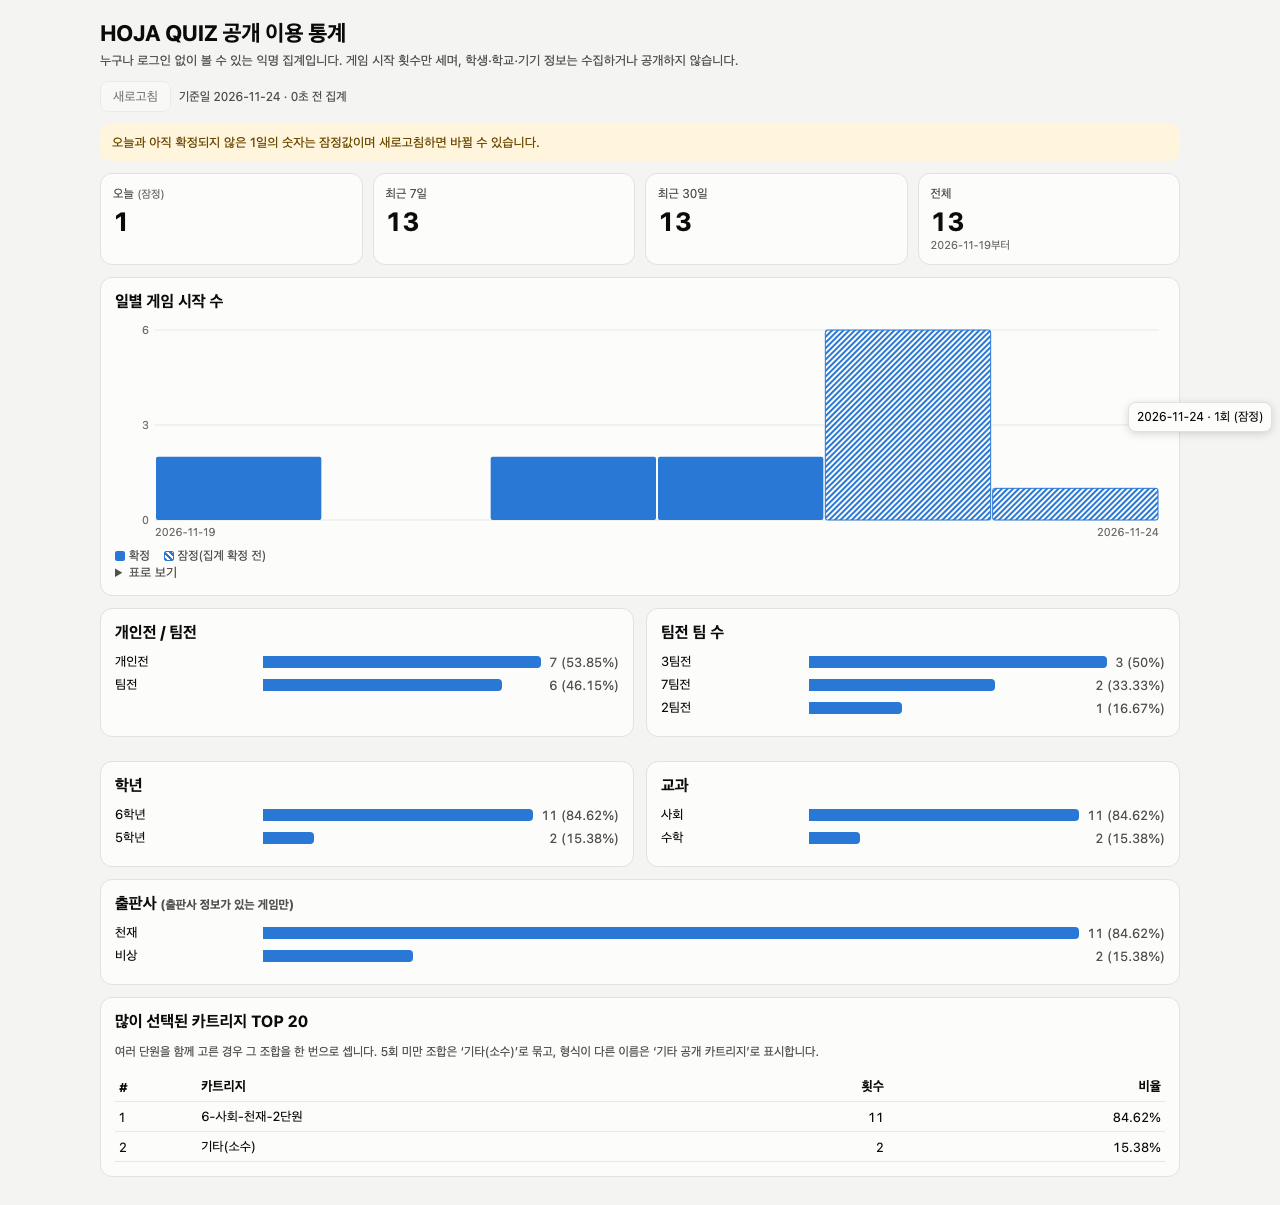
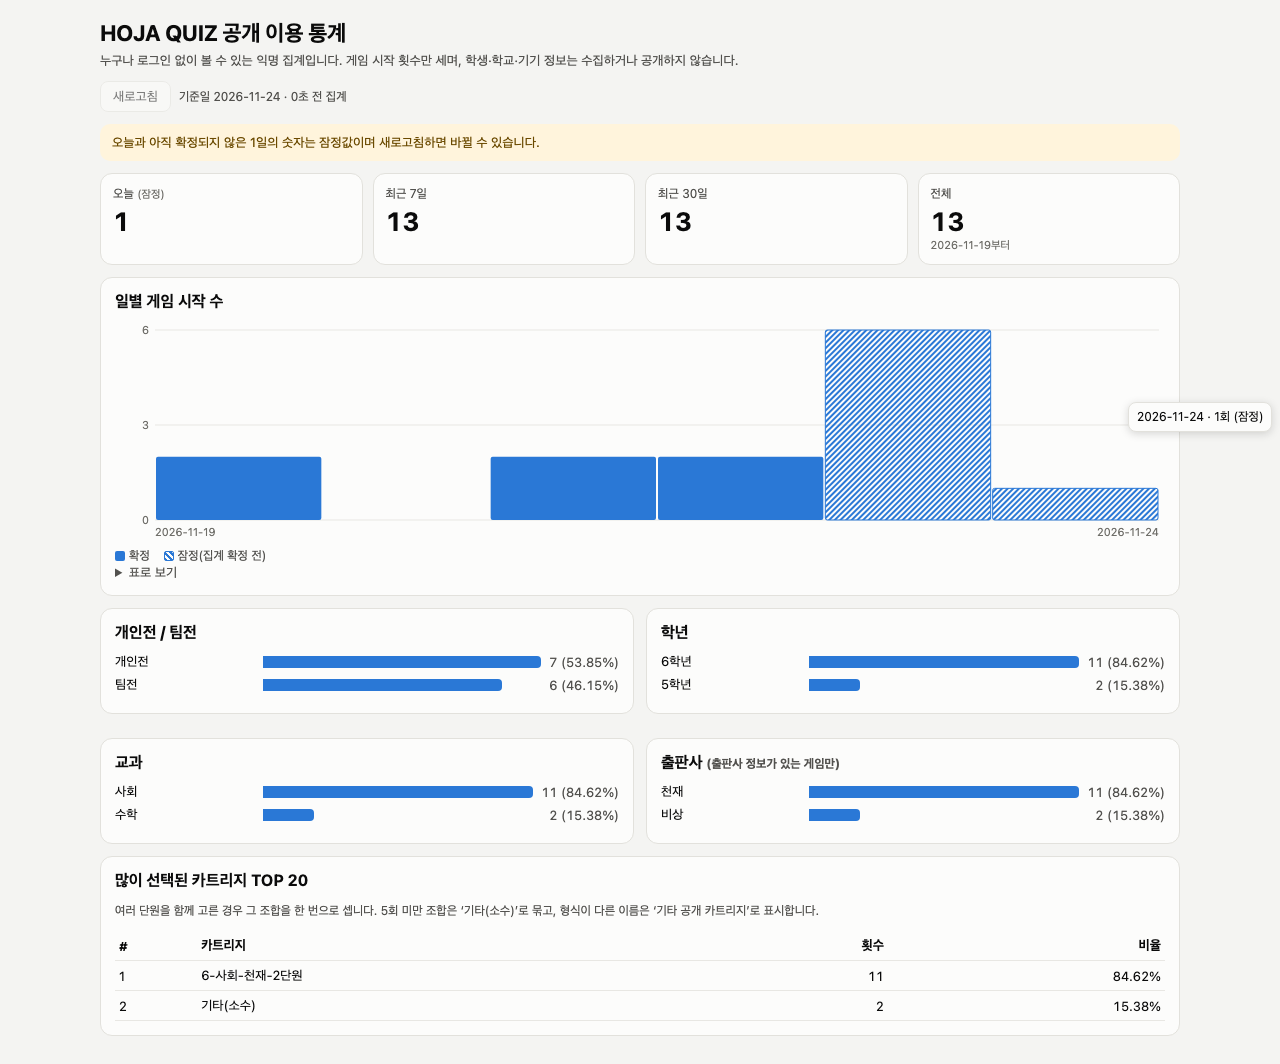
feat(usage-v4): drop team-size distribution from public stats per user decision

diff --git a/experimental/usage-v4-unified/gas/Stats.html b/experimental/usage-v4-unified/gas/Stats.html
@@ -83,11 +83,10 @@ details summary{cursor:pointer;font-size:13px;color:var(--text-secondary)}
   </div>
   <div class="grid2">
    <div class="card"><h2>개인전 / 팀전</h2><div id="l-mode"></div></div>
-   <div class="card"><h2>팀전 팀 수</h2><div id="l-team"></div></div>
    <div class="card"><h2>학년</h2><div id="l-grade"></div></div>
    <div class="card"><h2>교과</h2><div id="l-subject"></div></div>
+   <div class="card"><h2>출판사 <span class="note">(출판사 정보가 있는 게임만)</span></h2><div id="l-publisher"></div></div>
   </div>
-  <div class="card"><h2>출판사 <span class="note">(출판사 정보가 있는 게임만)</span></h2><div id="l-publisher"></div></div>
   <div class="card"><h2>많이 선택된 카트리지 TOP 20</h2>
    <p class="note">여러 단원을 함께 고른 경우 그 조합을 한 번으로 셉니다. 5회 미만 조합은 ‘기타(소수)’로 묶고, 형식이 다른 이름은 ‘기타 공개 카트리지’로 표시합니다.</p>
    <table><thead><tr><th>#</th><th>카트리지</th><th class="n">횟수</th><th class="n">비율</th></tr></thead><tbody id="top"></tbody></table>
@@ -186,7 +185,7 @@ details summary{cursor:pointer;font-size:13px;color:var(--text-secondary)}
   s.daily.slice().reverse().forEach(function(d){var tr=el('tr');tr.appendChild(el('td',d.date));
    tr.appendChild(el('td',fmt(d.count),'n'));tr.appendChild(el('td',prov.indexOf(d.date)>=0?'잠정':'확정'));tb.appendChild(tr);});
   bars('l-mode',s.mode,function(l){return MODE[l]||l;});
-  bars('l-team',s.teamCount);bars('l-grade',s.grade);bars('l-subject',s.subject);bars('l-publisher',s.publisher);
+  bars('l-grade',s.grade);bars('l-subject',s.subject);bars('l-publisher',s.publisher);
   var top=$('top');clear(top);
   if(!s.topCartridges.length){var tr0=el('tr');var td0=el('td','아직 기록이 없습니다.','empty');td0.colSpan=4;tr0.appendChild(td0);top.appendChild(tr0);}
   s.topCartridges.forEach(function(x,i){var tr=el('tr');tr.appendChild(el('td',i+1));tr.appendChild(el('td',x.label));

diff --git a/experimental/usage-v4-unified/verify_stats_chromium.py b/experimental/usage-v4-unified/verify_stats_chromium.py
@@ -62,7 +62,7 @@ async def main():
         assert prov_rows == len(ok['provisionalDays'])
         assert await page.locator('#top tr').count() == len(ok['topCartridges'])
         assert '개인전' in await page.locator('#l-mode').inner_text()
-        assert '7팀전' in await page.locator('#l-team').inner_text()
+        assert await page.locator('#l-team').count() == 0 and '팀전 팀 수' not in await page.content()
         # hover tooltip on a bar
         box = await page.locator('#chart').bounding_box()
         await page.mouse.move(box['x'] + box['width'] - 10, box['y'] + box['height'] / 2)

diff --git a/docs/HOJA_USAGE_V4_40_6_CLAUDE_WORKLOG_20261123.md b/docs/HOJA_USAGE_V4_40_6_CLAUDE_WORKLOG_20261123.md
@@ -105,3 +105,8 @@
 - 사유: 실 엔진 시험에는 사용자 Google 계정에 ① 인증 사본의 새 복제본 생성 ② 새 Apps Script 프로젝트 생성 ③ 익명 e2e용 `ANYONE_ANONYMOUS` 공개 URL 테스트 배포가 필요. 공개 URL 생성은 외부 노출 행위이므로 교사 승인 없이 진행하지 않음. 이 세션의 Drive 커넥터는 인증 사본 쓰기 권한 없음(적절).
 - 실행 절차와 기대값: `docs/HOJA_USAGE_V4_40_6_U3_REAL_GAS_RUNBOOK_20261123.md` (R1~R10: 익명 Ops 거부·`_` 함수 호출 불가 실측, 17,671 = 17,670+1, 재전송/충돌, 동시 40건, 자정 seal, 해시 손상, 실행 시간).
 - 실 엔진에서만 확인 가능한 잔여 위험: PropertiesService 쓰기-읽기 일관성(watermark), CacheService 실제 휘발, `Session.getActiveUser()` 익명 빈 값, ScriptLock 대기 시 `USAGE_APPEND_LOCK_TIMEOUT` 빈도, connector로 기록된 실 사본 manifest의 표시 형식(날짜가 `2026-09-23` 텍스트로 표시되는지, 숫자 천단위 구분 없음) — 형식이 다르면 Reader가 `INTEGRITY`/`MANIFEST_DATE_GAP`로 fail-closed(0 표시 아님).
+
+## 사용자 범위 변경 반영 — 팀전 팀 수 비공개 (2026-11-23 KST)
+- 사용자 지시: "팀전 팀수는 필요없음". 공개 응답에서 `teamCount` 필드 제거(서버 allowlist), Stats.html의 "팀전 팀 수" 카드 제거. 개인전/팀전(SOLO/TEAM) 비율은 유지.
+- 기록 계약(팀 2~7 입력 검증)과 V4 내부 `TEAM_SIZE` 버킷·정합성 검사는 **변경 없음**(과거 61일 인증 SHA·버킷 3,969행 호환 유지).
+- 재시험(로컬): U1 24/24, U2 7/7, U3 6/6, 오프라인 Chromium PASS(팀 수 카드 부재 확인). 지시서 rev.2의 `teamCount`/"팀 인원 2~7" 화면 요구는 이 사용자 결정으로 대체됨.

diff --git a/docs/HOJA_USAGE_V4_40_6_U0_DESIGN_20261123.md b/docs/HOJA_USAGE_V4_40_6_U0_DESIGN_20261123.md
@@ -62,7 +62,8 @@ Ops 가드: `Session.getActiveUser().getEmail()`이 비어 있지 않고 `Sessio
   cache:{ageSeconds,maxAgeSeconds,stale},
   totals:{today,days7,days30,all},
   daily:[{date,count}],
-  mode, teamCount, grade, subject, publisher, topCartridges : [{label,count,share}] }
+  mode, grade, subject, publisher, topCartridges : [{label,count,share}] }
+  // teamCount(팀전 팀 수 분포)는 2026-11-23 사용자 결정으로 공개 제외
 ```
 오류는 `{schema, status:'UNAVAILABLE', code, generatedAt}`만 반환하며 **숫자 필드를 포함하지 않는다**(0으로 위장 금지). 오류 코드는 고정 코드표로 매핑하고 내부 메시지·행 번호·시트 이름은 노출하지 않는다.
 
